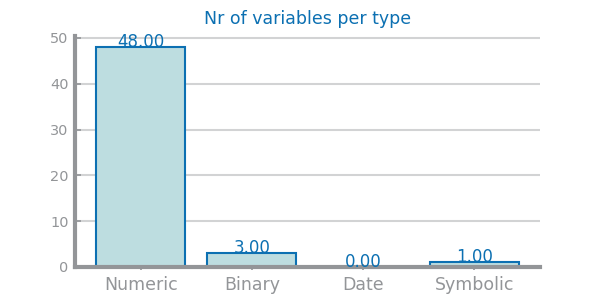
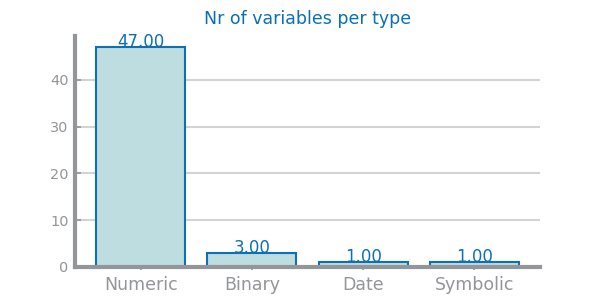
fixed fits and datetime on climate

diff --git a/climate/src/main.py b/climate/src/main.py
@@ -1,8 +1,12 @@
-from pandas import read_csv, DataFrame
+from pandas import read_csv, DataFrame, Series
 from pandas.plotting import register_matplotlib_converters
-from matplotlib.pyplot import figure, savefig, show, subplots
-from ds_charts import bar_chart, get_variable_types, choose_grid, HEIGHT, multiple_bar_chart
+from matplotlib.pyplot import figure, savefig, show, subplots, Axes
+from ds_charts import bar_chart, get_variable_types, choose_grid, HEIGHT, multiple_bar_chart, multiple_line_chart
 from seaborn import distplot
+from numpy import log
+from scipy.stats import norm, expon, lognorm
+
+
 
 NR_STDEV: int = 2
 
@@ -12,6 +16,9 @@ register_matplotlib_converters()
 
 filename = 'climate/resources/data/drought.csv'
 data = read_csv(filename, na_values='na')
+
+data['fips'] = data['fips'].astype('category')
+data['date'] = data['date'].astype('datetime64')
 
 data.shape
 
@@ -29,7 +36,7 @@ def get_variable_types(df: DataFrame) -> dict:
         if len(uniques) == 2:
             variable_types['Binary'].append(c)
             df[c].astype('bool')
-        elif df[c].dtype == 'datetime64':
+        elif df[c].dtype == 'datetime64' or df[c].dtype == 'datetime64[ns]':
             variable_types['Date'].append(c)
         elif df[c].dtype == 'int':
             variable_types['Numeric'].append(c)
@@ -147,6 +154,39 @@ def histogram_trend_per_numeric_variable():
   savefig('climate/images/histograms_trend_numeric.png')
   show()
 
+def compute_known_distributions(x_values: list) -> dict:
+    distributions = dict()
+    # Gaussian
+    mean, sigma = norm.fit(x_values)
+    distributions['Normal(%.1f,%.2f)'%(mean,sigma)] = norm.pdf(x_values, mean, sigma)
+    # Exponential
+    loc, scale = expon.fit(x_values)
+    distributions['Exp(%.2f)'%(1/scale)] = expon.pdf(x_values, loc, scale)
+    # LogNorm
+    sigma, loc, scale = lognorm.fit(x_values)
+    distributions['LogNor(%.1f,%.2f)'%(log(scale),sigma)] = lognorm.pdf(x_values, sigma, loc, scale)
+    return distributions
+
+def histogram_with_distributions(ax: Axes, series: Series, var: str):
+    values = series.sort_values().values
+    ax.hist(values, 20, density=True)
+    distributions = compute_known_distributions(values)
+    multiple_line_chart(values, distributions, ax=ax, title='Best fit for %s'%var, xlabel=var, ylabel='')
+
+
+def histogram_with_distributions_per_numeric_variable():
+  numeric_vars = get_variable_types(data)['Numeric']
+  if [] == numeric_vars:
+      raise ValueError('There are no numeric variables.')
+  rows, cols = choose_grid(len(numeric_vars))
+  fig, axs = subplots(rows, cols, figsize=(cols*HEIGHT, rows*HEIGHT), squeeze=False)
+  i, j = 0, 0
+  for n in range(len(numeric_vars)):
+      histogram_with_distributions(axs[i, j], data[numeric_vars[n]].dropna(), numeric_vars[n])
+      i, j = (i + 1, 0) if (n+1) % cols == 0 else (i, j + 1)
+  savefig('images/histogram_numeric_distribution.png')
+  show()
 
 if __name__ == "__main__":
-  histogram_trend_per_numeric_variable()
+  print(data.dtypes)
+  nr_of_variables_per_type()
